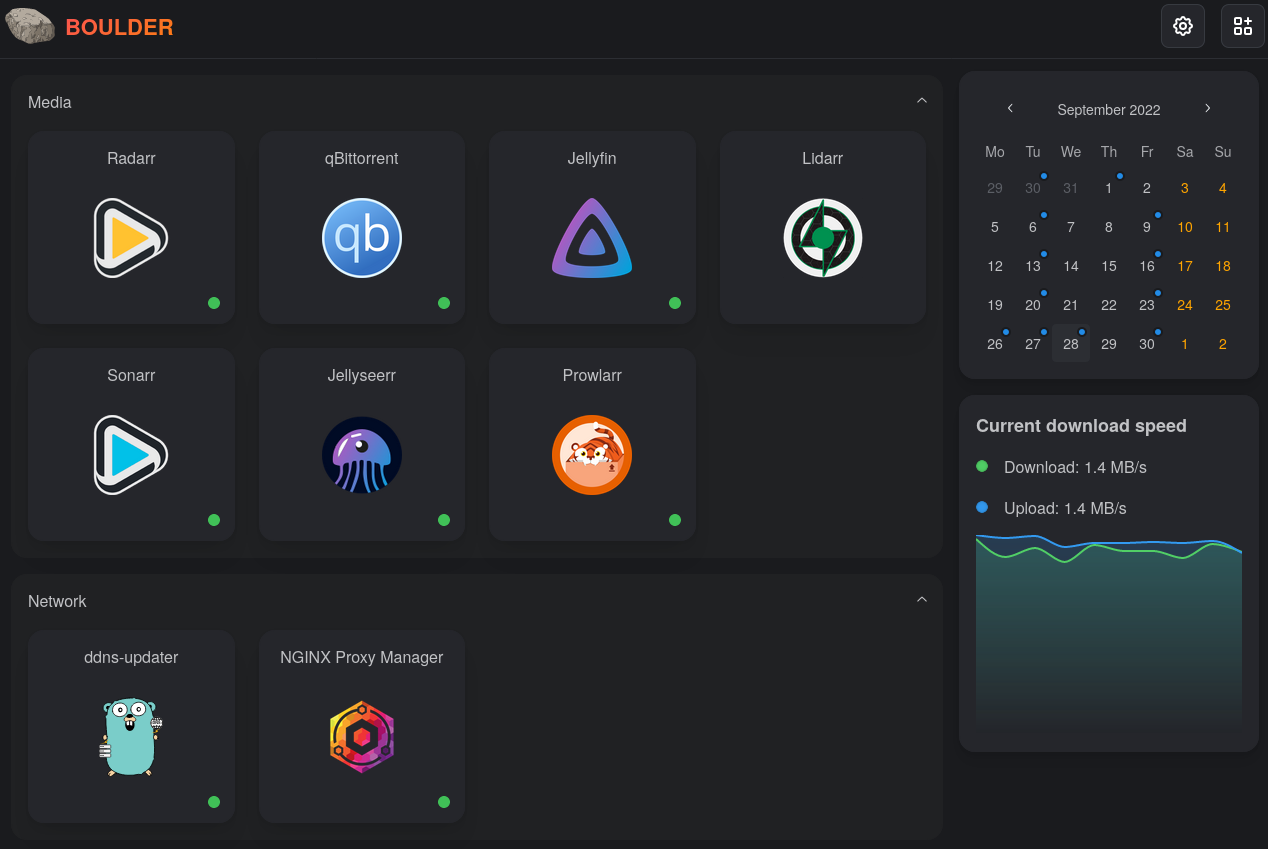
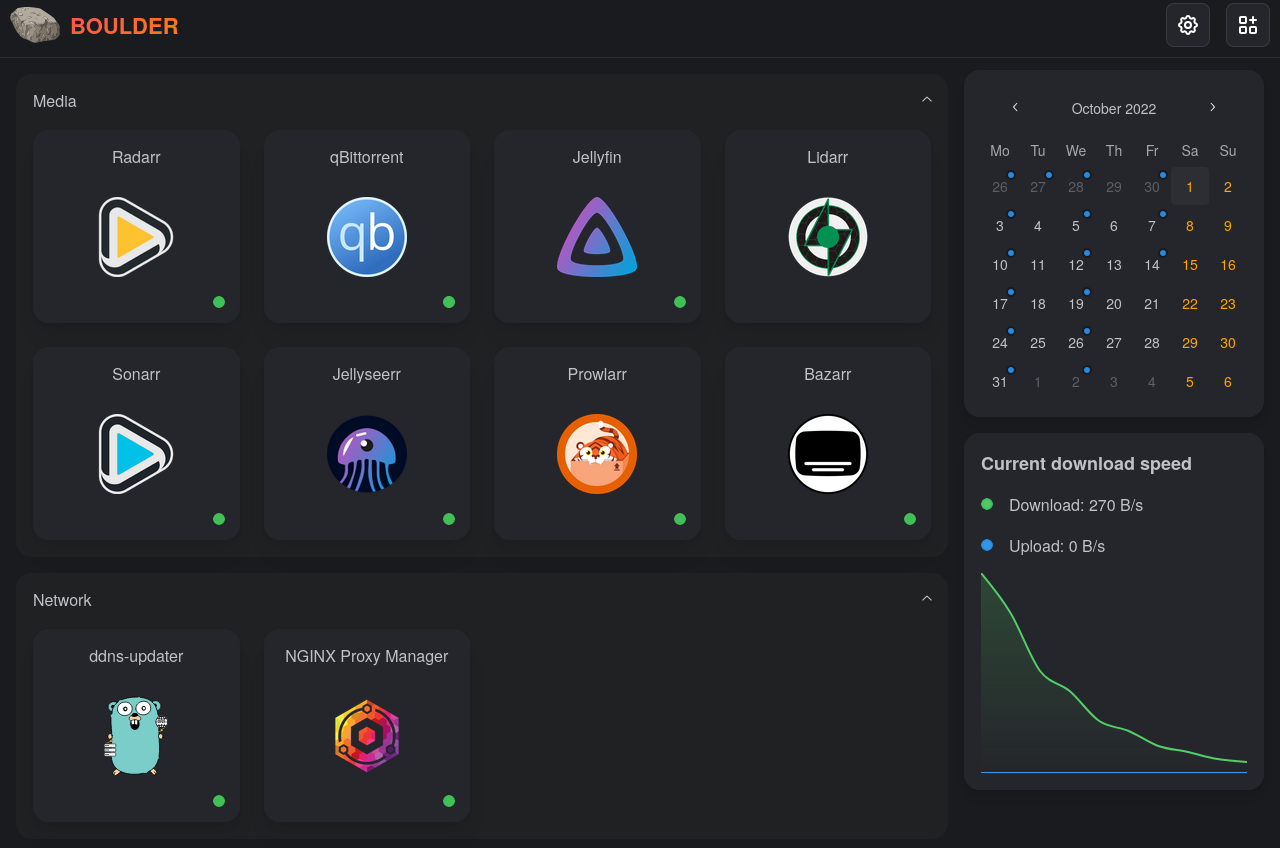
added bazarr

diff --git a/README.md b/README.md
@@ -5,14 +5,7 @@
 
 In this repository I document everything connected to my home server. I do this so that I may easily reproduce the steps taken but also as sort of a guide to others in the self-hosted community.
 
-Do you have a question regarding my implementation? Create an [issue](https://github.com/Stylback/home-server/issues) with the `question` tag and I will answer to the best of my ability. So far we have:
-
-<p align="center">
-      <a href="https://github.com/Stylback/home-server/labels/question" alt="Questions open">
-        <img src="https://img.shields.io/github/issues-raw/Stylback/home-server/question?color=3ba850&label=Open%20questions&style=for-the-badge" /></a>
-      <a href="https://github.com/Stylback/home-server/issues?q=is%3Aclosed+label%3Aquestion+" alt="Questions closed">
-        <img src="https://img.shields.io/github/issues-closed-raw/Stylback/home-server/question?color=338882&label=Answered%20questions&style=for-the-badge" /></a>
-</p>
+Do you have a question regarding my implementation? Create an [issue](https://github.com/Stylback/home-server/issues) with the `question` tag and I will answer to the best of my ability.
 
 Did you find something interesting and want to use it in your own project? You're welcome to use anything but the images, please see [License and usage](#license-and-usage).
 
@@ -68,6 +61,7 @@ Did you find something interesting and want to use it in your own project? You'r
   - [Part 3: TV-shows with Sonarr](#part-3-tv-shows-with-sonarr)
   - [Part 4: Music with Lidarr](#part-4-music-with-lidarr)
   - [Part 5: Request media with Jellyseerr](#part-5-request-media-with-jellyseerr)
+  - [Part 6: Manage subtitles with Bazarr](#part-6-manage-subtitles-with-bazarr)
 - [Future services](#future-services)
 - [Issues and solutions](#issues-and-solutions)
   - [Bricked motherboard](#bricked-motherboard)
@@ -1452,7 +1446,7 @@ Now visit sonarr's web-ui at `[local ip]:8989` and configure it. Finish up by cr
 
 ### Part 4: Music with Lidarr
 
-[Lidarr](https://hotio.dev/containers/lidarr/) is a a music collection manager, it allows us to keep our collection up-to-date and uniform, it also helps us discover new content based on our existing library. We will be using Hotio's docker image, start by making a directory:
+[Lidarr](https://lidarr.audio/) is a music collection manager. It allows us to keep our collection up-to-date and uniform, it also helps us discover new content based on our existing library. We will be using [hotio's](https://hotio.dev/containers/lidarr/) docker image, start by making a directory:
 
 ```sh
 sudo mkdir -p /srv/lidarr/config
@@ -1464,7 +1458,7 @@ Make a docker-compose.yml file:
 sudo nano /srv/lidarr/docker-compose.yml
 ```
 
-Paste:
+Paste the following:
 
 ```yml
 version: "3.7"
@@ -1485,7 +1479,7 @@ services:
     restart: always
 ```
 
-Start it with:
+Save and exit, start it with:
 
 ```sh
 cd /srv/lidarr && sudo docker compose up -d
@@ -1534,7 +1528,50 @@ Start it with:
 cd /srv/jellyseerr && sudo docker compose up -d
 ```
 
-Now visit jellyseerr's web-ui at `[local ip]:5055`. Log in using your Jellyfin account and follow the start-up guide. Finish up by creating a Proxy Host entry in NGINX and adding the app to Homarr.
+Now visit Jellyseerr's web-ui at `[local ip]:5055`. Log in using your Jellyfin account and follow the start-up guide. Finish up by creating a Proxy Host entry in NGINX and adding the app to Homarr.
+
+### Part 6: Manage subtitles with Bazarr
+
+[Bazarr](https://www.bazarr.media/) is a subtitle downloader and manager. It integrates natively with Radarr and Sonnar. We will be using [hotio's](https://hotio.dev/containers/bazarr/) Docker image, get started by making a the directory structure:
+
+```sh
+sudo mkdir -p /srv/bazarr/config
+```
+
+Now make a docker-compose.yml file:
+
+```sh
+sudo nano /srv/bazarr/docker-compose.yml
+```
+
+Paste the following:
+
+```yml                              
+version: "3.7"
+services:
+  bazarr:
+    container_name: bazarr
+    image: cr.hotio.dev/hotio/bazarr
+    ports:
+      - "6767:6767"
+    environment:
+      - PUID=1000
+      - PGID=1000
+      - UMASK=002
+      - TZ=Europe/Stockholm
+    volumes:
+      - /srv/bazarr/config:/app/config
+      - /srv/data:/data
+    restart: always
+```
+
+Save and exit, start it with:
+
+```sh
+cd /srv/bazarr && sudo docker compose up -d
+```
+
+Now visit Bazarr's web-ui at `[local ip]:6767`. Start by making a language profile and add subtitle providers, then connect to Radarr and Sonarr. When you know it works, finish up by creating a Proxy Host entry in NGINX and adding the app to Homarr. For security, remember to add an authentication method.
 
 </p>
 </details>
